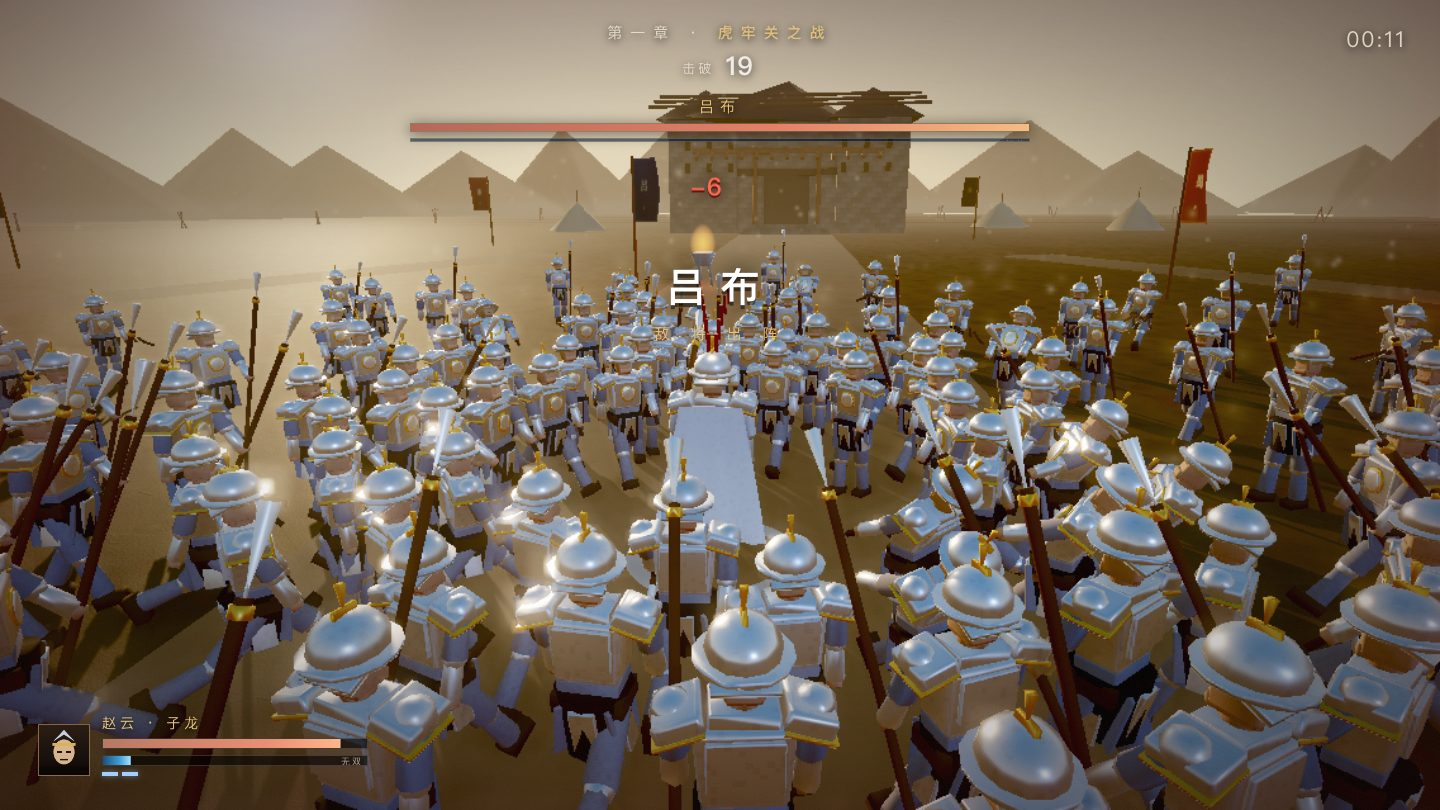
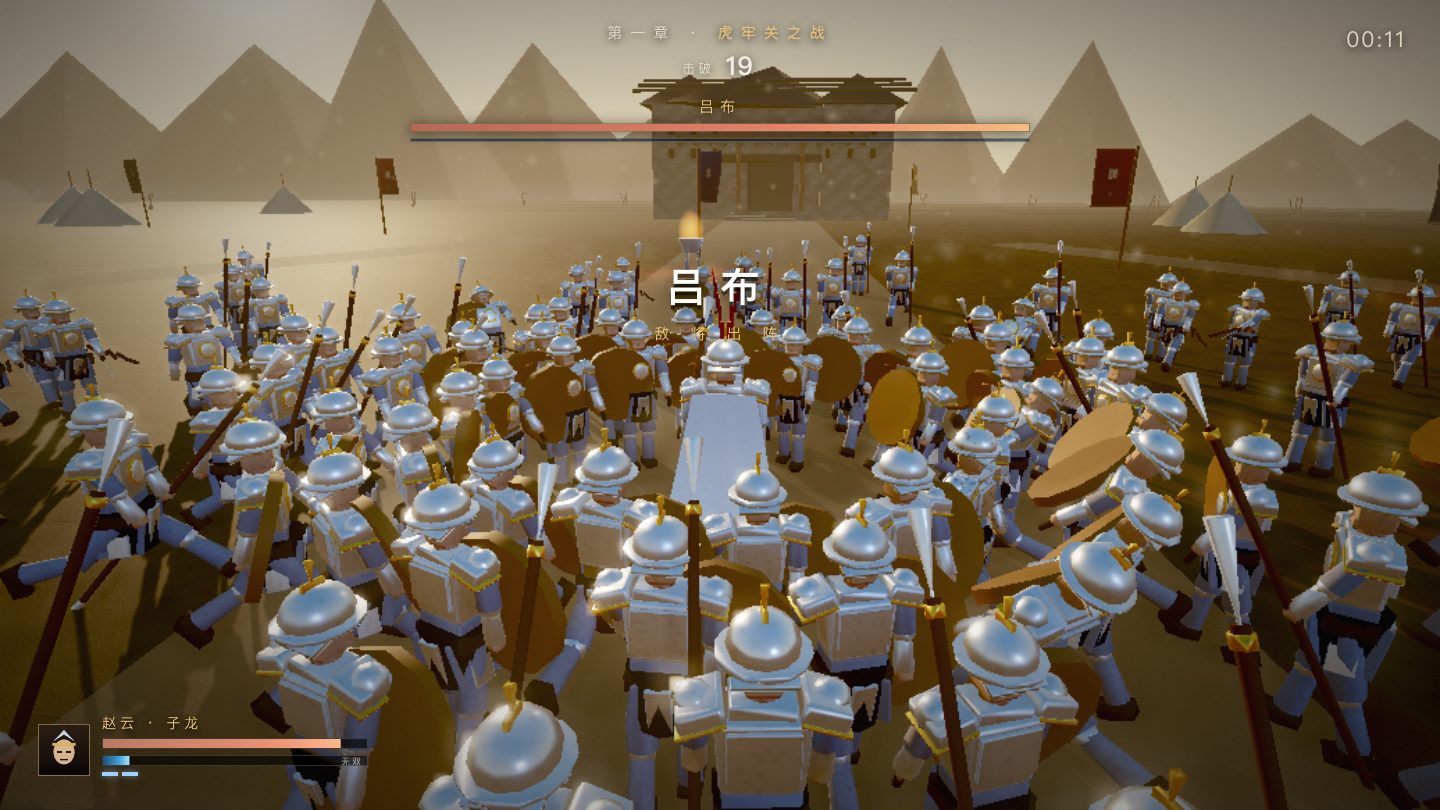
feat: 盾兵（正面减伤 30% + 可破防）
- 前排刀兵六成持盾：共享几何/材质挂左前臂骨骼（bone 8）
- 正面来袭（facingDot < -0.35）减伤 30%；背后/侧翼全额
- 耐久：轻击 -0.34、重击 -1，归零即破防（硬直 + 盾消失 + '破防' 提示）
- 性能：仅 60% 前排持盾 + 盾牌不投影 + 8 段圆柱
  实测 117 人 29 面盾 / 217 draw call（上限 260）
- 实测：正面轻击 100→70、背后 100→100、三连破防、重击一次破防
- 验收：18/18 + 14/14（保持率 1.00）

diff --git a/demos/index.html b/demos/index.html
@@ -608,6 +608,11 @@ const SURFACES = {
   wood:new THREE.MeshPhysicalMaterial({...surfaceMaps.wood,roughness:.68,metalness:0,clearcoat:.22,clearcoatRoughness:.48,envMapIntensity:.6}),
   skin:new THREE.MeshPhysicalMaterial({...surfaceMaps.skin,roughness:.8,metalness:0,thickness:.35,sheen:.12,sheenColor:0xe9b79a,sheenRoughness:.9,envMapIntensity:.45})
 };
+/* 盾兵装备：共享几何/材质，挂在左前臂骨骼上 */
+const SHIELD_GEO = new THREE.CylinderGeometry(.46, .46, .09, 8);
+const SHIELD_MAT = new THREE.MeshStandardMaterial({ color: 0x7a5a32, roughness: .62, metalness: .28 });
+const SHIELD_GEO_LOST = null;
+
 
 /* ============================================================
    3. 天空 / 光照
@@ -1932,6 +1937,7 @@ function releaseRig(rig) {
   rig.current = null;
   rig.elapsed = 0;
   rig.lod = 60;
+  if (rig.shieldMesh) { rig.bones[8].remove(rig.shieldMesh); rig.shieldMesh = null; }
   rig.mesh.visible = false;
   rig.mesh.removeFromParent();
   const kind = rig.mesh.userData.kind;
@@ -1995,7 +2001,18 @@ function updateEnemyRigs(dt) {
     max=i;const kind=s.officer?'officer':s.type;
     if(s.rig&&s.rig.mesh.userData.kind!==kind){ releaseRig(s.rig); s.rig=null; }
     if(!s.rig){ s.rig=acquireRig(kind); scene.add(s.rig.mesh); }
-    const r=s.rig;if(!r.mesh.parent)scene.add(r.mesh);r.mesh.visible=true;r.mesh.position.copy(s.pos);r.mesh.rotation.set(s.tilt,s.yaw,0,'YXZ');r.mesh.scale.setScalar(s.scale);
+    const r=s.rig;if(!r.mesh.parent)scene.add(r.mesh);r.mesh.visible=true;
+    /* 盾牌：仅前排盾兵，挂左前臂骨骼 */
+    const wantShield = s.role === 'front' && s.shield > 0 && !s.dead;
+    if (wantShield && !r.shieldMesh) {
+      const m = new THREE.Mesh(SHIELD_GEO, SHIELD_MAT);
+      m.position.set(0, -0.04, 0.10); m.rotation.set(Math.PI / 2, 0, 0);
+      m.castShadow = false;   /* 省一张 shadow draw call */
+      r.bones[8].add(m); r.shieldMesh = m;
+    } else if (!wantShield && r.shieldMesh) {
+      r.bones[8].remove(r.shieldMesh); r.shieldMesh = null;
+    }
+r.mesh.position.copy(s.pos);r.mesh.rotation.set(s.tilt,s.yaw,0,'YXZ');r.mesh.scale.setScalar(s.scale);
     const name=s.dead?'die':s.state==='stagger'?'hit':s.state==='wind'||s.state==='strike'||s.state==='rec'?'atk1':s.state==='chase'?'run':'idle';
     const changed=r.current!==name;playRig(r,name);
     r.timeOverride=null;
@@ -2111,6 +2128,7 @@ function spawnEnemy(type, x, z, opt = {}) {
   /* 阵型角色：刀兵前排、枪兵侧翼、弓兵后排 */
   s.role = opt.officer ? 'boss' : (type === 'archer' ? 'back' : (type === 'spear' ? 'flank' : 'front'));
   s.side = Math.random() < .5 ? -1 : 1;
+  s.shield = (s.role === 'front' && Math.random() < .6) ? 1 : 0;   /* 混合阵线：六成持盾 */
   s.tint.set(opt.tint ?? d.tint);
   if (opt.officer) s.tint.set(opt.tint || 0xd8b25a);
   return s;
@@ -2136,6 +2154,23 @@ function shake(mag, dur) { shakeMag = Math.max(shakeMag, mag); shakeT = Math.max
 
 function damageEnemy(s, dmg, dirX, dirZ, heavy) {
   if (s.dead || !s.active) return;
+  /* 盾兵：正面来袭减伤 30%，累计到阈值破防（重击一次破） */
+  if (s.shield > 0 && s.role === 'front') {
+    const facingDot0 = dirX * Math.sin(s.yaw) + dirZ * Math.cos(s.yaw);
+    if (facingDot0 < -0.35) {
+      dmg *= 0.70;
+      s.shield -= heavy ? 1 : 0.34;
+      const sp = _v3.set(s.pos.x - dirX * .5, 1.25, s.pos.z - dirZ * .5);
+      burst(sp, 6, { color: 0xfff0c0, speed: 5, up: 2, life: .22, size: .2, grav: -10 });
+      if (s.shield <= 0) {
+        s.shield = 0;
+        s.state = 'stagger'; s.t = 0; s.atkP = 0;
+        popDamage(_v3.copy(s.pos).setY(2.2), '破防', 'parry');
+        SFX.parry();
+        shockRing(s.pos, 2.2, .28, 0xffd9a0);
+      }
+    }
+  }
   s.hp -= dmg; s.flash = 1;
   const p = _v3.copy(s.pos); p.y = 1.25;
   popDamage(p, Math.round(dmg), heavy ? 'crit' : '');
@@ -3597,6 +3632,7 @@ window.__dbg = {
   jump() { tryJump(); return player.airY; },
   execute() { return tryExecute(); },
   light() { tryLight(); },
+  damageEnemy(a, b, c, d, e) { damageEnemy(a, b, c, d, e); },
   dash() { tryDash(); },
   jumpKey() { tryJump(); },
   airAttack() { return tryAirAttack(); },

diff --git a/README.md b/README.md
@@ -49,6 +49,8 @@ cd demos && python3 -m http.server 8000
   强化池 6 种：烈刃（伤害 +18%）/ 疾风（出招 +12%）/ 龙胆（无双槽 +25%）/ 横扫（范围 +15%）/ 铁壁（体力上限 +25 并回满）/ 嗜血（击破回 1.5）。
 - **锁定吸附**：锁定敌将时轻击/重击会把朝向拉到目标并小幅前移，显著减少 60 人混战里的挥空。
 - **格挡 / 弹反**：`Q` 按住减伤 80%（不进硬直、不断连击）；受击前 0.16 s 内按下为**精准弹反**——无伤 + 0.2 s 顿帧 + 震退面前敌人 + 无双槽 +8。
+- **盾兵**：前排刀兵中**六成持盾**（左前臂挂盾，独立网格），正面来袭减伤 **30%**，累计 3 次轻击或 1 次重击**破防**（进硬直、盾消失、显示"破防"）。
+  背后/侧翼攻击不受减伤——所以绕背或用范围技是正解。
 - **围攻阵型**：每个杂兵出生时分配角色——刀兵**前排**（正面直推）、枪兵**侧翼**（中距离带切向分量，弧线绕到侧面再收拢）、
   弓兵**后排**（保持 12 m，过近后撤）。实测 40 人 5 s 后包围均匀度 **0.077**（1.0 = 全堆一侧，0 = 均匀环绕）。
 - **弓兵齐射**：每约 5 s 组织一次，≥3 名弓兵同时进入 0.42 s 抬弓前摇后齐射，伴随喊话与鼓声。
